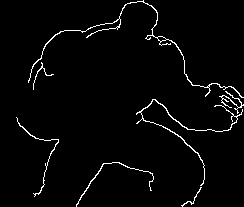
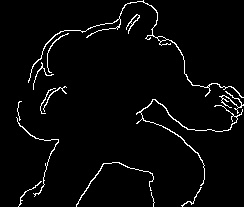
Puntos de la imagen

diff --git a/ProyectoCalculo.py b/ProyectoCalculo.py
@@ -18,8 +18,8 @@ def convert_to_grayscale(image_path, grayscale_output_path):
 
         print("Convirtiendo a escala de grises...")
         # Recorrido de cada pixel para convertirlo
-        for x in range(width):
-            for y in range(height):
+        for x in range(width): # Eje X: izquierda → derecha
+            for y in range(height): # Eje Y: arriba → abajo
                 r, g, b = image.getpixel((x, y))
                 gray_value = rgb_to_grayscale(r, g, b)
                 grayscale_image.putpixel((x, y), gray_value)
@@ -39,10 +39,10 @@ def apply_canny_edge_detector(image_path, output_path):
         # Leer la imagen en escala de grises con OpenCV
         img = cv2.imread(image_path, 0)
 
-        # Suavisar imagen
+        # Filtro gaussiano para reducir el ruido de la imagen
         blur = cv2.GaussianBlur(img, (5,5), 0)
         # Aplicar filtro Canny
-        edges = cv2.Canny(blur, threshold1=150, threshold2=600)
+        edges = cv2.Canny(blur, threshold1=150, threshold2=500)
 
         # Guardar la imagen resultante
         cv2.imwrite(output_path, edges)
@@ -85,19 +85,45 @@ def find_coordinates(edges, image_path):
 
 
             # Guardar coordenadas en un archivo o imprimirlas
-            print("Coordenadas del contorno superior:")
-            print(top_points)
+            # print("Coordenadas del contorno superior:")
+            # print(top_points)
             return top_contour.squeeze()
         
         else:
             print("No se encontraron contornos.")
+
+def filter_coordinates(coordinates, image_path):
+    coordenadas_np = np.array(coordinates)
+
+    # Encontrar filas únicas para evitar redundancia
+    coordenadas_f = np.unique(coordenadas_np, axis=0)
+    # Encontrar columnas únicas ya que no es posible tener dos coordenadas con el mismo valor de x
+    coordenadas_ordenadas = coordenadas_f[np.lexsort((coordenadas_f[:, 1], coordenadas_f[:, 0]))]
+    _, indices_unicos = np.unique(coordenadas_ordenadas[:, 0], return_index=True)
+    coordenadas_filtradas = coordenadas_ordenadas[indices_unicos]
+
+    print("Coordenadas filtradas (x único, y más pequeño):")
+    print(coordenadas_filtradas)
+
+    # Mostrar la imagen con los puntos
+    for (x, y) in coordenadas_filtradas:
+        imag = cv2.circle(image_path, (x, y), radius=1, color=(0, 0, 255), thickness=-1)  # Puntos rojos
+    
+    cv2.imshow("Puntos filtrados (y más pequeño)", imag)
+    cv2.waitKey(0)
+    cv2.destroyAllWindows()
+
+    return coordenadas_filtradas
+
+
 
 if __name__ == "__main__":
     input_image = "HulkProyecto.jpg"
     grayscale_image = "imagen_gris.jpg"
     print("=== Iniciando programa ===")
     edges_image = convert_to_grayscale(input_image, grayscale_image)
-    find_coordinates(edges_image, cv2.imread(input_image))
+    coordinates = find_coordinates(edges_image, cv2.imread(input_image))
+    coordinates_filter = filter_coordinates(coordinates, cv2.imread(input_image))
     print("=== Finalizado ===")
 
 
